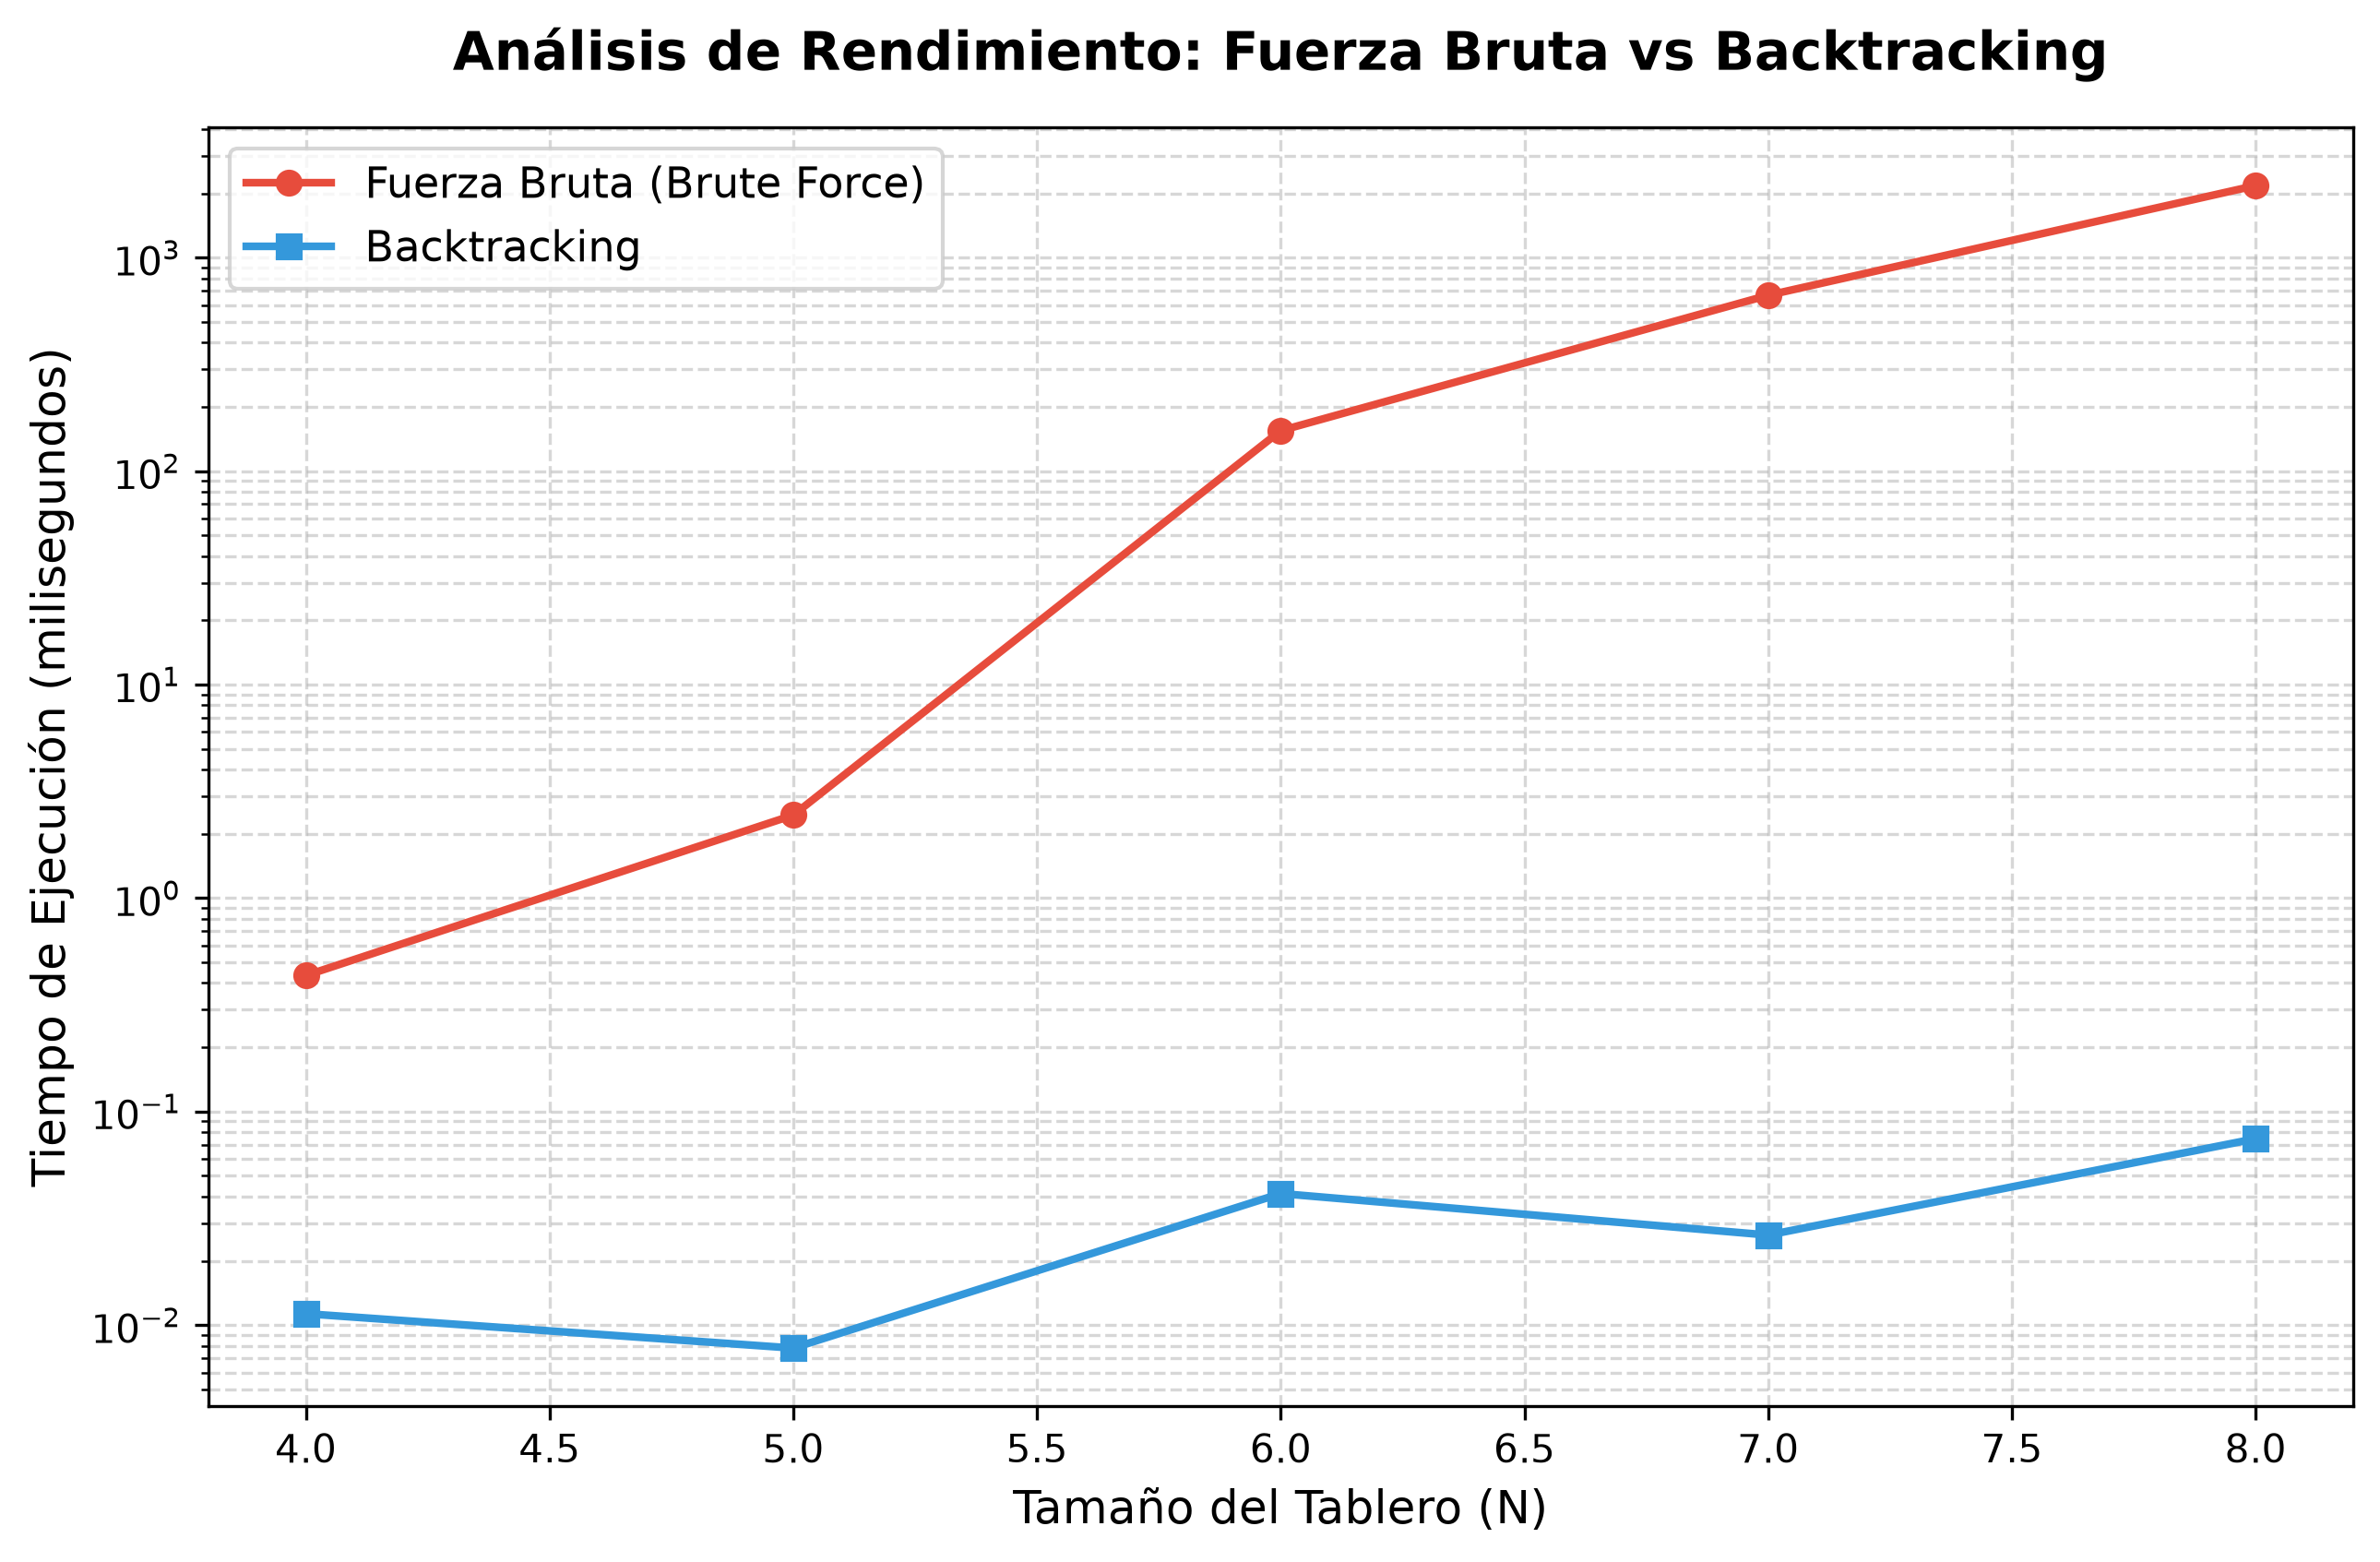
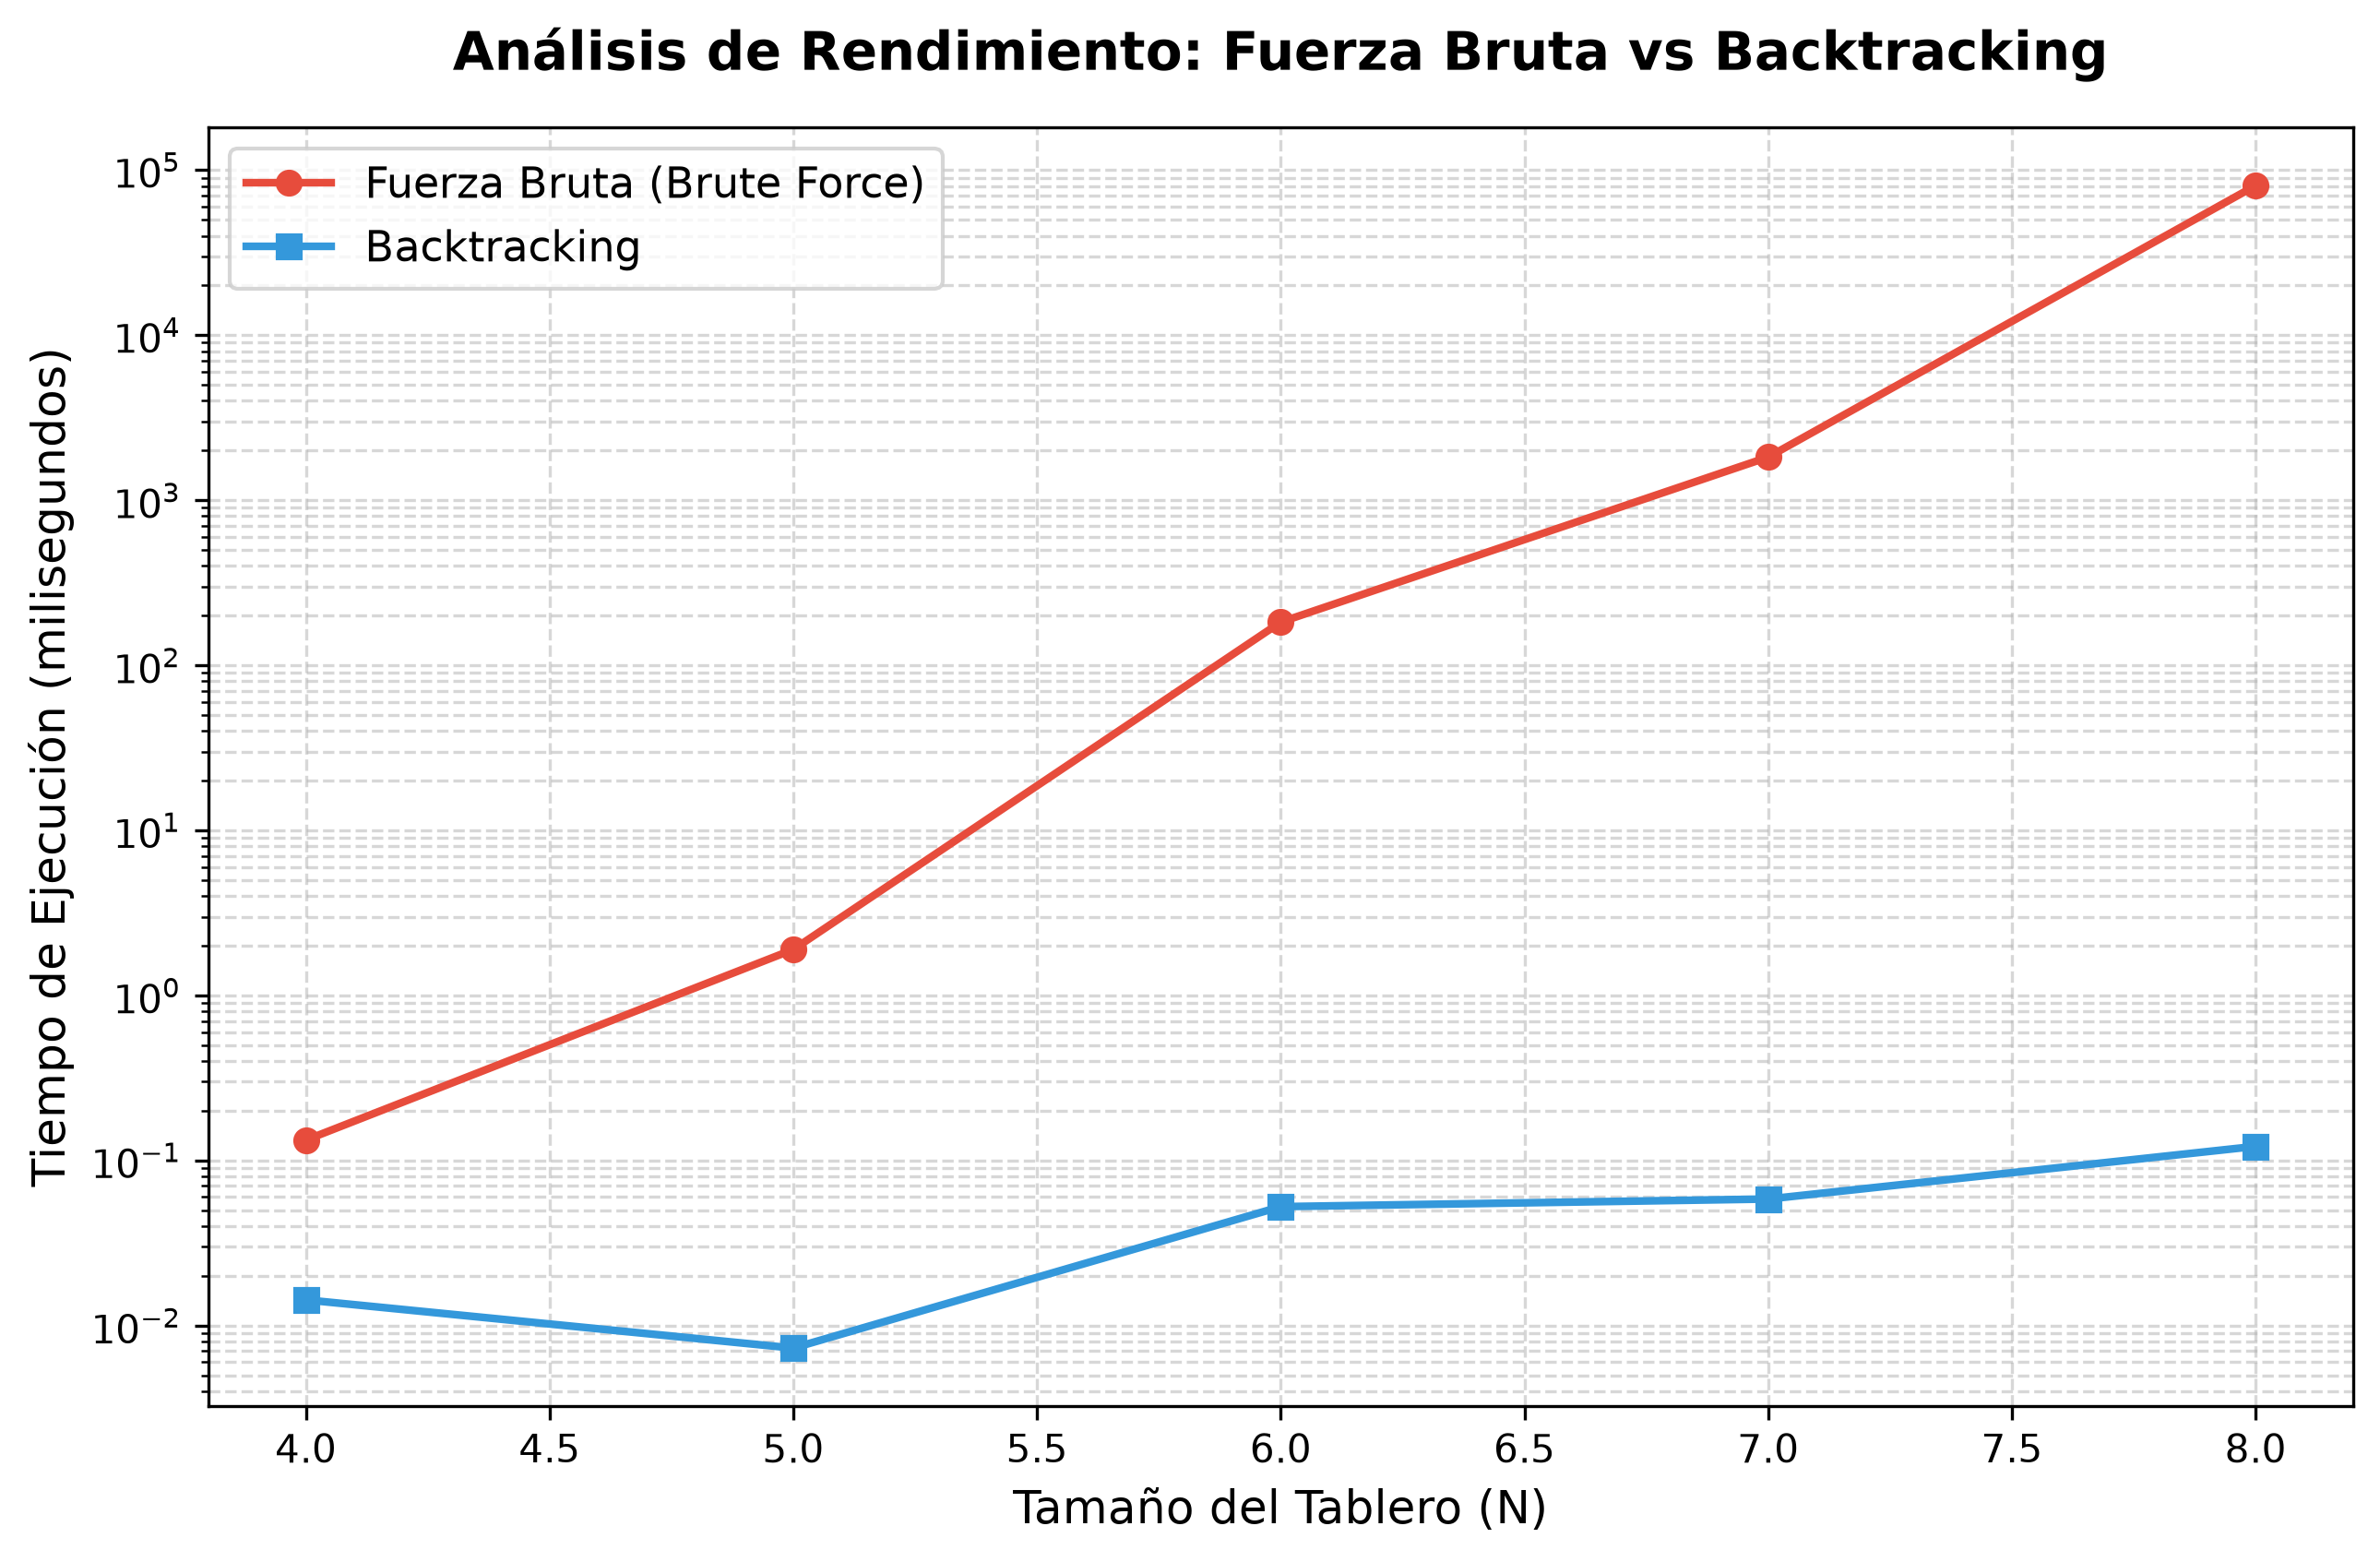
Implementa suite completa de pruebas aleatorias, actualiza benchmark y genera graficas de rendimiento

Changed region(s): [[0.031, 0.0921, 0.9922, 0.8907], [0.062, 0.0921, 0.093, 0.1229]]

diff --git a/tests/test_nqueenscompletion.py b/tests/test_nqueenscompletion.py
@@ -1,3 +1,6 @@
+import pytest
+from src.backtracking import resolver_backtracking
+
 try:
     from src.bruteforce import resolver_fuerza_bruta
 except ImportError:
@@ -5,6 +8,7 @@ except ImportError:
 
 from src.backtracking import resolver_backtracking
 from tests.validators import verificar_n_queens_completion 
+from tests.generator import generar_tablero_aleatorio
 
 
 # ==========================================
@@ -79,22 +83,34 @@ def test_fuerza_bruta_caso_imposible():
     assert solucion is None, "Para N=3 no existe solución, debe retornar None"
 
 
-# ==========================================
-# COMPARACIÓN ENTRE AMBOS ALGORITMOS
-# ==========================================
+# =====================================================================
+# PRUEBAS ALEATORIAS
+# =====================================================================
 
-def test_comparar_solucionadores():
-    """Compara que ambos algoritmos coincidan en la factibilidad de un problema"""
-    n = 5
-    reinas_iniciales = [(0, 0), (1, 2)]
[email redacted]("ejecucion", range(10))  # Repite la prueba 10 veces con tableros diferentes
+def test_algoritmos_con_tableros_aleatorios(ejecucion):
+    """
+    Genera tableros aleatorios sorpresa de tamaños entre 4 y 6,
+    los resuelve y verifica matemáticamente que las soluciones sean válidas.
+    """
+    import random
     
-    solucion_bt = resolver_backtracking(n, reinas_iniciales)
-    solucion_fb = resolver_fuerza_bruta(n, reinas_iniciales)
+    # elegimos un tamaño de tablero al azar (mantenemos tamaños pequeños para no ralentizar Pytest)
+    n = random.randint(4, 6)
+    reinas_iniciales_por_tablero = 1
     
-    if solucion_bt is None:
-        assert solucion_fb is None, "Si Backtracking no halla solución, Fuerza Bruta tampoco debería"
-    else:
-        assert solucion_fb is not None, "Si Backtracking halla solución, Fuerza Bruta también debería"
-        # ambos deben ser válidos aunque las soluciones individuales difieran
-        assert verificar_n_queens_completion(n, reinas_iniciales, solucion_bt) == True
-        assert verificar_n_queens_completion(n, reinas_iniciales, solucion_fb) == True
+    # 1 generamos el tablero sorpresa
+    tablero_inicial = generar_tablero_aleatorio(n, reinas_iniciales_por_tablero)
+    
+    # 2 probamos y validamos backtracking
+    solucion_bt = resolver_backtracking(n, tablero_inicial)
+    if solucion_bt is not None:
+        # Si encontró solución, verificamos que no se ataquen y que respete las iniciales
+        exito_bt = verificar_n_queens_completion(n, tablero_inicial, solucion_bt)
+        assert exito_bt == True, f"¡Fallo! Backtracking dio una solución inválida para N={n} con iniciales {tablero_inicial}"
+        
+    # 3 probamos y validamos Fuerza Bruta
+    solucion_fb = resolver_fuerza_bruta(n, tablero_inicial)
+    if solucion_fb is not None:
+        exito_fb = verificar_n_queens_completion(n, tablero_inicial, solucion_fb)
+        assert exito_fb == True, f"¡Fallo! Fuerza Bruta dio una solución inválida para N={n} con iniciales {tablero_inicial}"